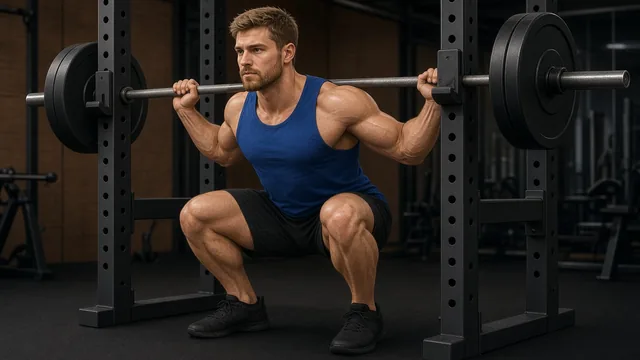
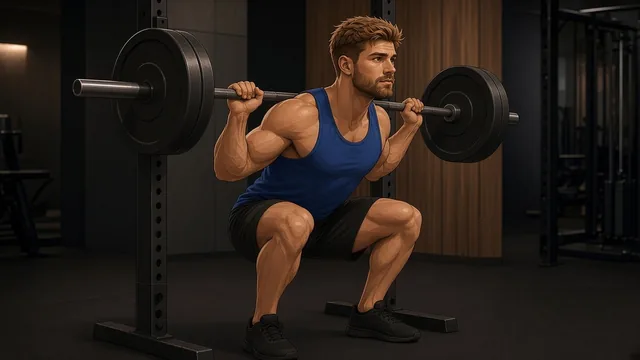
Form tips, new squat image, back-extension + migration (2026.10.23-ce60fec2)

diff --git a/library.js b/library.js
@@ -1,3 +1,3 @@
 // generated by tools/gen_img.py + tools/build_assets.py
-const LIBRARY=[{"key": "bench-press", "name": "לחיצת חזה במוט", "group": "חזה", "img": "img/bench-press.webp"}, {"key": "incline-press", "name": "לחיצת חזה שיפוע עליון", "group": "חזה", "img": "img/incline-press.webp"}, {"key": "pec-deck", "name": "מכונת פרפר", "group": "חזה", "img": "img/pec-deck.webp"}, {"key": "chest-press-machine", "name": "לחיצת חזה במכונה", "group": "חזה", "img": "img/chest-press-machine.webp"}, {"key": "cable-crossover", "name": "קרוסאובר", "group": "חזה", "img": "img/cable-crossover.webp"}, {"key": "dumbbell-press", "name": "לחיצת חזה במשקולות", "group": "חזה", "img": "img/dumbbell-press.webp"}, {"key": "incline-dumbbell-press", "name": "לחיצת משקולות שיפוע עליון", "group": "חזה", "img": "img/incline-dumbbell-press.webp"}, {"key": "decline-press", "name": "לחיצת חזה שיפוע תחתון", "group": "חזה", "img": "img/decline-press.webp"}, {"key": "dumbbell-fly", "name": "פרפר במשקולות", "group": "חזה", "img": "img/dumbbell-fly.webp"}, {"key": "push-up", "name": "שכיבות סמיכה", "group": "חזה", "img": "img/push-up.webp", "type": "bw"}, {"key": "smith-bench", "name": "לחיצת חזה בסמית׳", "group": "חזה", "img": "img/smith-bench.webp"}, {"key": "pullover", "name": "פולאובר", "group": "חזה", "img": "img/pullover.webp"}, {"key": "lat-pulldown", "name": "פולי עליון", "group": "גב", "img": "img/lat-pulldown.webp"}, {"key": "seated-row", "name": "חתירה בישיבה", "group": "גב", "img": "img/seated-row.webp"}, {"key": "barbell-row", "name": "חתירה במוט", "group": "גב", "img": "img/barbell-row.webp"}, {"key": "pull-up", "name": "מתח", "group": "גב", "img": "img/pull-up.webp", "type": "bw"}, {"key": "deadlift", "name": "דדליפט", "group": "גב", "img": "img/deadlift.webp"}, {"key": "t-bar-row", "name": "חתירת T-בר", "group": "גב", "img": "img/t-bar-row.webp"}, {"key": "dumbbell-row", "name": "חתירה במשקולת ביד אחת", "group": "גב", "img": "img/dumbbell-row.webp"}, {"key": "close-grip-pulldown", "name": "פולי עליון אחיזה צרה", "group": "גב", "img": "img/close-grip-pulldown.webp"}, {"key": "straight-arm-pulldown", "name": "פולאובר בכבל בידיים ישרות", "group": "גב", "img": "img/straight-arm-pulldown.webp"}, {"key": "chin-up", "name": "מתח באחיזה הפוכה", "group": "גב", "img": "img/chin-up.webp", "type": "bw"}, {"key": "machine-row", "name": "חתירה במכונה", "group": "גב", "img": "img/machine-row.webp"}, {"key": "shoulder-press", "name": "לחיצת כתפיים", "group": "כתפיים", "img": "img/shoulder-press.webp"}, {"key": "lateral-raise", "name": "הרחקה לצדדים", "group": "כתפיים", "img": "img/lateral-raise.webp"}, {"key": "reverse-fly", "name": "פרפר הפוך", "group": "כתפיים", "img": "img/reverse-fly.webp"}, {"key": "face-pull", "name": "פייס פול", "group": "כתפיים", "img": "img/face-pull.webp"}, {"key": "dumbbell-shoulder-press", "name": "לחיצת כתפיים במשקולות", "group": "כתפיים", "img": "img/dumbbell-shoulder-press.webp"}, {"key": "arnold-press", "name": "לחיצת ארנולד", "group": "כתפיים", "img": "img/arnold-press.webp"}, {"key": "standing-shoulder-press", "name": "לחיצה צבאית בעמידה", "group": "כתפיים", "img": "img/standing-shoulder-press.webp"}, {"key": "front-raise", "name": "הרמה קדמית", "group": "כתפיים", "img": "img/front-raise.webp"}, {"key": "upright-row", "name": "חתירה לסנטר", "group": "כתפיים", "img": "img/upright-row.webp"}, {"key": "cable-lateral-raise", "name": "הרחקה לצד בכבל", "group": "כתפיים", "img": "img/cable-lateral-raise.webp"}, {"key": "shrug", "name": "משיכת כתפיים", "group": "כתפיים", "img": "img/shrug.webp"}, {"key": "machine-shoulder-press", "name": "לחיצת כתפיים במכונה", "group": "כתפיים", "img": "img/machine-shoulder-press.webp"}, {"key": "barbell-curl", "name": "כפיפת מרפק במוט", "group": "יד קדמית", "img": "img/barbell-curl.webp"}, {"key": "dumbbell-curl", "name": "כפיפה עם משקולות", "group": "יד קדמית", "img": "img/dumbbell-curl.webp"}, {"key": "hammer-curl", "name": "פטישים", "group": "יד קדמית", "img": "img/hammer-curl.webp"}, {"key": "cable-curl", "name": "כפיפה בכבל", "group": "יד קדמית", "img": "img/cable-curl.webp"}, {"key": "preacher-curl", "name": "כפיפה על ספסל סקוט", "group": "יד קדמית", "img": "img/preacher-curl.webp"}, {"key": "concentration-curl", "name": "כפיפת ריכוז", "group": "יד קדמית", "img": "img/concentration-curl.webp"}, {"key": "incline-curl", "name": "כפיפה בספסל משופע", "group": "יד קדמית", "img": "img/incline-curl.webp"}, {"key": "ez-curl", "name": "כפיפה במוט EZ", "group": "יד קדמית", "img": "img/ez-curl.webp"}, {"key": "rope-hammer-curl", "name": "פטישים בחבל", "group": "יד קדמית", "img": "img/rope-hammer-curl.webp"}, {"key": "spider-curl", "name": "כפיפת עכביש", "group": "יד קדמית", "img": "img/spider-curl.webp"}, {"key": "machine-curl", "name": "כפיפת מרפק במכונה", "group": "יד קדמית", "img": "img/machine-curl.webp"}, {"key": "triceps-pushdown", "name": "פושדאון בכבל", "group": "יד אחורית", "img": "img/triceps-pushdown.webp"}, {"key": "skull-crusher", "name": "פרענית צרפתית", "group": "יד אחורית", "img": "img/skull-crusher.webp"}, {"key": "dips", "name": "מקבילים", "group": "יד אחורית", "img": "img/dips.webp", "type": "bw"}, {"key": "overhead-extension", "name": "פשיטת מרפק מעל הראש", "group": "יד אחורית", "img": "img/overhead-extension.webp"}, {"key": "rope-pushdown", "name": "פושדאון בחבל", "group": "יד אחורית", "img": "img/rope-pushdown.webp"}, {"key": "kickback", "name": "קיקבק", "group": "יד אחורית", "img": "img/kickback.webp"}, {"key": "bench-dips", "name": "מקבילים על ספסל", "group": "יד אחורית", "img": "img/bench-dips.webp", "type": "bw"}, {"key": "diamond-push-up", "name": "שכיבות סמיכה יהלום", "group": "יד אחורית", "img": "img/diamond-push-up.webp", "type": "bw"}, {"key": "single-arm-pushdown", "name": "פושדאון ביד אחת", "group": "יד אחורית", "img": "img/single-arm-pushdown.webp"}, {"key": "triceps-machine", "name": "מכונת יד אחורית", "group": "יד אחורית", "img": "img/triceps-machine.webp"}, {"key": "squat", "name": "סקוואט", "group": "רגליים", "img": "img/squat.webp"}, {"key": "leg-press", "name": "לחיצת רגליים", "group": "רגליים", "img": "img/leg-press.webp"}, {"key": "leg-extension", "name": "פשיטת ברכיים", "group": "רגליים", "img": "img/leg-extension.webp"}, {"key": "leg-curl", "name": "כפיפת ברכיים", "group": "רגליים", "img": "img/leg-curl.webp"}, {"key": "lunge", "name": "מכרעים", "group": "רגליים", "img": "img/lunge.webp"}, {"key": "calf-raise", "name": "תאומים", "group": "רגליים", "img": "img/calf-raise.webp"}, {"key": "hip-thrust", "name": "היפ תראסט", "group": "רגליים", "img": "img/hip-thrust.webp"}, {"key": "romanian-deadlift", "name": "דדליפט רומני", "group": "רגליים", "img": "img/romanian-deadlift.webp"}, {"key": "bulgarian-split-squat", "name": "סקוואט בולגרי", "group": "רגליים", "img": "img/bulgarian-split-squat.webp"}, {"key": "hack-squat", "name": "האק סקוואט", "group": "רגליים", "img": "img/hack-squat.webp"}, {"key": "goblet-squat", "name": "גובלט סקוואט", "group": "רגליים", "img": "img/goblet-squat.webp"}, {"key": "crunch", "name": "כפיפות בטן", "group": "בטן", "img": "img/crunch.webp", "type": "bw"}, {"key": "oblique-crunch", "name": "כפיפות בטן לצדדים", "group": "בטן", "img": "img/oblique-crunch.webp", "type": "bw"}, {"key": "plank", "name": "פלאנק", "group": "בטן", "img": "img/plank.webp", "type": "timed"}, {"key": "leg-raise", "name": "הרמת רגליים", "group": "בטן", "img": "img/leg-raise.webp"}, {"key": "decline-situp", "name": "בטן בספסל שיפוע", "group": "בטן", "img": "img/decline-situp.webp"}, {"key": "cable-crunch", "name": "כפיפות בטן בכבל", "group": "בטן", "img": "img/cable-crunch.webp"}, {"key": "russian-twist", "name": "טוויסט רוסי", "group": "בטן", "img": "img/russian-twist.webp", "type": "bw"}, {"key": "side-plank", "name": "פלאנק צידי", "group": "בטן", "img": "img/side-plank.webp", "type": "timed"}, {"key": "hanging-knee-raise", "name": "הרמת ברכיים בתלייה", "group": "בטן", "img": "img/hanging-knee-raise.webp", "type": "bw"}, {"key": "bicycle-crunch", "name": "בטן אופניים", "group": "בטן", "img": "img/bicycle-crunch.webp", "type": "bw"}, {"key": "ab-wheel", "name": "גלגל בטן", "group": "בטן", "img": "img/ab-wheel.webp", "type": "bw"}, {"key": "mountain-climber", "name": "מטפס הרים", "group": "בטן", "img": "img/mountain-climber.webp", "type": "timed"}];
-const APP_VERSION='2026.10.23-95171713';
+const LIBRARY=[{"key": "bench-press", "name": "לחיצת חזה במוט", "group": "חזה", "img": "img/bench-press.webp"}, {"key": "incline-press", "name": "לחיצת חזה שיפוע עליון", "group": "חזה", "img": "img/incline-press.webp"}, {"key": "pec-deck", "name": "מכונת פרפר", "group": "חזה", "img": "img/pec-deck.webp"}, {"key": "chest-press-machine", "name": "לחיצת חזה במכונה", "group": "חזה", "img": "img/chest-press-machine.webp"}, {"key": "cable-crossover", "name": "קרוסאובר", "group": "חזה", "img": "img/cable-crossover.webp"}, {"key": "dumbbell-press", "name": "לחיצת חזה במשקולות", "group": "חזה", "img": "img/dumbbell-press.webp"}, {"key": "incline-dumbbell-press", "name": "לחיצת משקולות שיפוע עליון", "group": "חזה", "img": "img/incline-dumbbell-press.webp"}, {"key": "decline-press", "name": "לחיצת חזה שיפוע תחתון", "group": "חזה", "img": "img/decline-press.webp"}, {"key": "dumbbell-fly", "name": "פרפר במשקולות", "group": "חזה", "img": "img/dumbbell-fly.webp"}, {"key": "push-up", "name": "שכיבות סמיכה", "group": "חזה", "img": "img/push-up.webp", "type": "bw"}, {"key": "smith-bench", "name": "לחיצת חזה בסמית׳", "group": "חזה", "img": "img/smith-bench.webp"}, {"key": "pullover", "name": "פולאובר", "group": "חזה", "img": "img/pullover.webp"}, {"key": "lat-pulldown", "name": "פולי עליון", "group": "גב", "img": "img/lat-pulldown.webp"}, {"key": "seated-row", "name": "חתירה בישיבה", "group": "גב", "img": "img/seated-row.webp"}, {"key": "barbell-row", "name": "חתירה במוט", "group": "גב", "img": "img/barbell-row.webp"}, {"key": "pull-up", "name": "מתח", "group": "גב", "img": "img/pull-up.webp", "type": "bw"}, {"key": "deadlift", "name": "דדליפט", "group": "גב", "img": "img/deadlift.webp"}, {"key": "t-bar-row", "name": "חתירת T-בר", "group": "גב", "img": "img/t-bar-row.webp"}, {"key": "dumbbell-row", "name": "חתירה במשקולת ביד אחת", "group": "גב", "img": "img/dumbbell-row.webp"}, {"key": "close-grip-pulldown", "name": "פולי עליון אחיזה צרה", "group": "גב", "img": "img/close-grip-pulldown.webp"}, {"key": "straight-arm-pulldown", "name": "פולאובר בכבל בידיים ישרות", "group": "גב", "img": "img/straight-arm-pulldown.webp"}, {"key": "back-extension", "name": "פשיטת גב (היפראקסטנשן)", "group": "גב", "img": "img/back-extension.webp"}, {"key": "chin-up", "name": "מתח באחיזה הפוכה", "group": "גב", "img": "img/chin-up.webp", "type": "bw"}, {"key": "machine-row", "name": "חתירה במכונה", "group": "גב", "img": "img/machine-row.webp"}, {"key": "shoulder-press", "name": "לחיצת כתפיים", "group": "כתפיים", "img": "img/shoulder-press.webp"}, {"key": "lateral-raise", "name": "הרחקה לצדדים", "group": "כתפיים", "img": "img/lateral-raise.webp"}, {"key": "reverse-fly", "name": "פרפר הפוך", "group": "כתפיים", "img": "img/reverse-fly.webp"}, {"key": "face-pull", "name": "פייס פול", "group": "כתפיים", "img": "img/face-pull.webp"}, {"key": "dumbbell-shoulder-press", "name": "לחיצת כתפיים במשקולות", "group": "כתפיים", "img": "img/dumbbell-shoulder-press.webp"}, {"key": "arnold-press", "name": "לחיצת ארנולד", "group": "כתפיים", "img": "img/arnold-press.webp"}, {"key": "standing-shoulder-press", "name": "לחיצה צבאית בעמידה", "group": "כתפיים", "img": "img/standing-shoulder-press.webp"}, {"key": "front-raise", "name": "הרמה קדמית", "group": "כתפיים", "img": "img/front-raise.webp"}, {"key": "upright-row", "name": "חתירה לסנטר", "group": "כתפיים", "img": "img/upright-row.webp"}, {"key": "cable-lateral-raise", "name": "הרחקה לצד בכבל", "group": "כתפיים", "img": "img/cable-lateral-raise.webp"}, {"key": "shrug", "name": "משיכת כתפיים", "group": "כתפיים", "img": "img/shrug.webp"}, {"key": "machine-shoulder-press", "name": "לחיצת כתפיים במכונה", "group": "כתפיים", "img": "img/machine-shoulder-press.webp"}, {"key": "barbell-curl", "name": "כפיפת מרפק במוט", "group": "יד קדמית", "img": "img/barbell-curl.webp"}, {"key": "dumbbell-curl", "name": "כפיפה עם משקולות", "group": "יד קדמית", "img": "img/dumbbell-curl.webp"}, {"key": "hammer-curl", "name": "פטישים", "group": "יד קדמית", "img": "img/hammer-curl.webp"}, {"key": "cable-curl", "name": "כפיפה בכבל", "group": "יד קדמית", "img": "img/cable-curl.webp"}, {"key": "preacher-curl", "name": "כפיפה על ספסל סקוט", "group": "יד קדמית", "img": "img/preacher-curl.webp"}, {"key": "concentration-curl", "name": "כפיפת ריכוז", "group": "יד קדמית", "img": "img/concentration-curl.webp"}, {"key": "incline-curl", "name": "כפיפה בספסל משופע", "group": "יד קדמית", "img": "img/incline-curl.webp"}, {"key": "ez-curl", "name": "כפיפה במוט EZ", "group": "יד קדמית", "img": "img/ez-curl.webp"}, {"key": "rope-hammer-curl", "name": "פטישים בחבל", "group": "יד קדמית", "img": "img/rope-hammer-curl.webp"}, {"key": "spider-curl", "name": "כפיפת עכביש", "group": "יד קדמית", "img": "img/spider-curl.webp"}, {"key": "machine-curl", "name": "כפיפת מרפק במכונה", "group": "יד קדמית", "img": "img/machine-curl.webp"}, {"key": "triceps-pushdown", "name": "פושדאון בכבל", "group": "יד אחורית", "img": "img/triceps-pushdown.webp"}, {"key": "skull-crusher", "name": "פרענית צרפתית", "group": "יד אחורית", "img": "img/skull-crusher.webp"}, {"key": "dips", "name": "מקבילים", "group": "יד אחורית", "img": "img/dips.webp", "type": "bw"}, {"key": "overhead-extension", "name": "פשיטת מרפק מעל הראש", "group": "יד אחורית", "img": "img/overhead-extension.webp"}, {"key": "rope-pushdown", "name": "פושדאון בחבל", "group": "יד אחורית", "img": "img/rope-pushdown.webp"}, {"key": "kickback", "name": "קיקבק", "group": "יד אחורית", "img": "img/kickback.webp"}, {"key": "bench-dips", "name": "מקבילים על ספסל", "group": "יד אחורית", "img": "img/bench-dips.webp", "type": "bw"}, {"key": "diamond-push-up", "name": "שכיבות סמיכה יהלום", "group": "יד אחורית", "img": "img/diamond-push-up.webp", "type": "bw"}, {"key": "single-arm-pushdown", "name": "פושדאון ביד אחת", "group": "יד אחורית", "img": "img/single-arm-pushdown.webp"}, {"key": "triceps-machine", "name": "מכונת יד אחורית", "group": "יד אחורית", "img": "img/triceps-machine.webp"}, {"key": "squat", "name": "סקוואט", "group": "רגליים", "img": "img/squat.webp"}, {"key": "leg-press", "name": "לחיצת רגליים", "group": "רגליים", "img": "img/leg-press.webp"}, {"key": "leg-extension", "name": "פשיטת ברכיים", "group": "רגליים", "img": "img/leg-extension.webp"}, {"key": "leg-curl", "name": "כפיפת ברכיים", "group": "רגליים", "img": "img/leg-curl.webp"}, {"key": "lunge", "name": "מכרעים", "group": "רגליים", "img": "img/lunge.webp"}, {"key": "calf-raise", "name": "תאומים", "group": "רגליים", "img": "img/calf-raise.webp"}, {"key": "hip-thrust", "name": "היפ תראסט", "group": "רגליים", "img": "img/hip-thrust.webp"}, {"key": "romanian-deadlift", "name": "דדליפט רומני", "group": "רגליים", "img": "img/romanian-deadlift.webp"}, {"key": "bulgarian-split-squat", "name": "סקוואט בולגרי", "group": "רגליים", "img": "img/bulgarian-split-squat.webp"}, {"key": "hack-squat", "name": "האק סקוואט", "group": "רגליים", "img": "img/hack-squat.webp"}, {"key": "goblet-squat", "name": "גובלט סקוואט", "group": "רגליים", "img": "img/goblet-squat.webp"}, {"key": "crunch", "name": "כפיפות בטן", "group": "בטן", "img": "img/crunch.webp", "type": "bw"}, {"key": "oblique-crunch", "name": "כפיפות בטן לצדדים", "group": "בטן", "img": "img/oblique-crunch.webp", "type": "bw"}, {"key": "plank", "name": "פלאנק", "group": "בטן", "img": "img/plank.webp", "type": "timed"}, {"key": "leg-raise", "name": "הרמת רגליים", "group": "בטן", "img": "img/leg-raise.webp"}, {"key": "decline-situp", "name": "בטן בספסל שיפוע", "group": "בטן", "img": "img/decline-situp.webp"}, {"key": "cable-crunch", "name": "כפיפות בטן בכבל", "group": "בטן", "img": "img/cable-crunch.webp"}, {"key": "russian-twist", "name": "טוויסט רוסי", "group": "בטן", "img": "img/russian-twist.webp", "type": "bw"}, {"key": "side-plank", "name": "פלאנק צידי", "group": "בטן", "img": "img/side-plank.webp", "type": "timed"}, {"key": "hanging-knee-raise", "name": "הרמת ברכיים בתלייה", "group": "בטן", "img": "img/hanging-knee-raise.webp", "type": "bw"}, {"key": "bicycle-crunch", "name": "בטן אופניים", "group": "בטן", "img": "img/bicycle-crunch.webp", "type": "bw"}, {"key": "ab-wheel", "name": "גלגל בטן", "group": "בטן", "img": "img/ab-wheel.webp", "type": "bw"}, {"key": "mountain-climber", "name": "מטפס הרים", "group": "בטן", "img": "img/mountain-climber.webp", "type": "timed"}];
+const APP_VERSION='2026.10.23-ce60fec2';

diff --git a/tips.js b/tips.js
@@ -1,0 +1,82 @@
+// form cues per library exercise (each ≤6 words)
+const TIPS={
+'bench-press':['שכמות מקובצות לאחור ולמטה','מרפקים כ־45° מהגוף','מוט יורד לאמצע החזה'],
+'incline-press':['ספסל בשיפוע 30–45°','מוט יורד לחזה העליון','שכמות צמודות לספסל'],
+'pec-deck':['מרפקים מעט כפופים וקבועים','חזה פתוח, גב צמוד','חזרה איטית ומבוקרת'],
+'chest-press-machine':['ידיות בגובה אמצע החזה','לא לנעול מרפקים בסוף','גב צמוד למשענת'],
+'cable-crossover':['רכינה קלה קדימה','מרפקים מעט כפופים','חיבור ידיים מול החזה'],
+'dumbbell-press':['שכמות מקובצות לאחור','מרפקים כ־45° מהגוף','ירידה מבוקרת עד מתיחה'],
+'incline-dumbbell-press':['ספסל בשיפוע 30–45°','משקולות נפגשות מעל החזה','לא לקשת את הגב'],
+'decline-press':['רגליים נעולות היטב','מוט יורד לחזה התחתון','עבודה עם שומר'],
+'dumbbell-fly':['מרפקים מעט כפופים וקבועים','ירידה עד מתיחה נוחה','לא לרדת מתחת לכתפיים'],
+'push-up':['גוף בקו ישר','מרפקים כ־45° מהגוף','חזה כמעט נוגע ברצפה'],
+'smith-bench':['ספסל ממוקם מתחת לחזה','שכמות מקובצות לאחור','מוט יורד לאמצע החזה'],
+'pullover':['מרפקים מעט כפופים','ירידה עד מתיחה נוחה','צלעות למטה, בלי קשת'],
+'lat-pulldown':['משיכה לחזה העליון','שכמות למטה ואחורה','לא להתנדנד לאחור'],
+'seated-row':['גב ישר, חזה פתוח','משיכה לבטן העליונה','שכמות נסגרות בסוף'],
+'barbell-row':['גב ישר, רכינה ~45°','משיכה לטבור','בלי תנופה מהגב'],
+'pull-up':['להתחיל מתלייה מלאה','חזה אל המוט','בלי נדנוד'],
+'deadlift':['גב ניטרלי לאורך כל התנועה','מוט צמוד לרגליים','דחיפה מהעקבים'],
+'t-bar-row':['גב ישר, ברכיים כפופות','משיכה לחזה התחתון','בלי לעגל את הגב'],
+'dumbbell-row':['גב ישר ומקביל לרצפה','מרפק נמשך לאחור לירך','בלי סיבוב הגו'],
+'close-grip-pulldown':['משיכה לחזה העליון','מרפקים צמודים לגוף','שכמות למטה'],
+'straight-arm-pulldown':['ידיים כמעט ישרות','משיכה עד הירכיים','גו יציב, בלי תנופה'],
+'back-extension':['גוף בקו ישר למעלה','לא לקשת מעבר לקו','ירידה איטית מהמותן'],
+'chin-up':['אחיזה ברוחב הכתפיים','להתחיל מתלייה מלאה','סנטר מעל המוט'],
+'machine-row':['חזה צמוד לכרית','משיכה עם המרפקים','שכמות נסגרות בסוף'],
+'shoulder-press':['בטן אסופה, בלי קשת','מרפקים מעט לפני הגוף','לא לנעול מרפקים'],
+'lateral-raise':['הרמה עד גובה הכתפיים','מרפקים מעט כפופים','בלי תנופה'],
+'reverse-fly':['רכינה עם גב ישר','מרפקים מעט כפופים','שכמות נסגרות בסוף'],
+'face-pull':['כבל בגובה הפנים','משיכה לכיוון המצח','מרפקים גבוהים והחוצה'],
+'dumbbell-shoulder-press':['גב צמוד למשענת','מרפקים מעט לפני הגוף','ירידה עד גובה האוזניים'],
+'arnold-press':['סיבוב כפות תוך כדי לחיצה','בטן אסופה','תנועה איטית ומבוקרת'],
+'standing-shoulder-press':['ישבן ובטן מכווצים','מוט עובר צמוד לפנים','ראש קדימה בסוף התנועה'],
+'front-raise':['הרמה עד גובה הכתפיים','מרפקים מעט כפופים','בלי נדנוד הגו'],
+'upright-row':['אחיזה ברוחב הכתפיים','מרפקים עד גובה הכתפיים','לא מעל הכתפיים'],
+'cable-lateral-raise':['כבל בגובה נמוך','הרמה עד גובה הכתפיים','גו יציב'],
+'shrug':['הרמת כתפיים ישר למעלה','בלי לגלגל כתפיים','החזקה קצרה למעלה'],
+'machine-shoulder-press':['ידיות בגובה הכתפיים','גב צמוד למשענת','לא לנעול מרפקים'],
+'barbell-curl':['מרפקים צמודים לגוף','בלי תנופה מהגב','ירידה מלאה ומבוקרת'],
+'dumbbell-curl':['מרפקים צמודים לגוף','סיבוב כף יד למעלה','ירידה איטית'],
+'hammer-curl':['אגודל כלפי מעלה','מרפקים צמודים לגוף','בלי נדנוד'],
+'cable-curl':['מרפקים קבועים ליד הגוף','מתח רציף בכבל','ירידה מבוקרת'],
+'preacher-curl':['זרוע צמודה לכרית','לא ליישר מרפק בכוח','ירידה איטית'],
+'concentration-curl':['מרפק נשען על הירך','רק האמה זזה','כיווץ בשיא'],
+'incline-curl':['גב צמוד לספסל','ידיים תלויות ישר','בלי להקדים כתפיים'],
+'ez-curl':['מרפקים צמודים לגוף','בלי תנופה מהגב','ירידה מלאה ומבוקרת'],
+'rope-hammer-curl':['אגודלים כלפי מעלה','מרפקים צמודים לגוף','מתח רציף בכבל'],
+'spider-curl':['חזה צמוד לספסל','ידיים תלויות ישר','כיווץ בשיא'],
+'machine-curl':['מרפק מול ציר המכונה','זרוע צמודה לכרית','ירידה מבוקרת'],
+'triceps-pushdown':['מרפקים צמודים לגוף','יישור מלא למטה','רק האמה זזה'],
+'skull-crusher':['מרפקים מכוונים לתקרה','מוט יורד למצח','ירידה איטית ומבוקרת'],
+'dips':['ירידה עד מרפק 90°','כתפיים רחוקות מהאוזניים','בלי לקפוץ למטה'],
+'overhead-extension':['מרפקים מכוונים קדימה','בטן אסופה, בלי קשת','יישור מלא למעלה'],
+'rope-pushdown':['מרפקים צמודים לגוף','פיסוק החבל למטה','רק האמה זזה'],
+'kickback':['גב ישר, רכינה קדימה','זרוע מקבילה לגוף','רק האמה זזה'],
+'bench-dips':['גב קרוב לספסל','ירידה עד מרפק 90°','כתפיים למטה'],
+'diamond-push-up':['ידיים צמודות מתחת לחזה','גוף בקו ישר','מרפקים צמודים לגוף'],
+'single-arm-pushdown':['מרפק צמוד לגוף','יישור מלא למטה','גו יציב'],
+'triceps-machine':['מרפקים מול ציר המכונה','יישור מלא','חזרה מבוקרת'],
+'squat':['ברכיים בכיוון האצבעות','גב ניטרלי, חזה פתוח','ירידה עד ירכיים מקבילות'],
+'leg-press':['גב תחתון צמוד למשענת','לא לנעול ברכיים','ברכיים בכיוון האצבעות'],
+'leg-extension':['ברך מול ציר המכונה','יישור מבוקר, בלי זריקה','ירידה איטית'],
+'leg-curl':['ברך מול ציר המכונה','אגן צמוד לכרית','ירידה איטית'],
+'lunge':['ברך קדמית מעל הקרסול','גו זקוף','ברך אחורית כמעט נוגעת'],
+'calf-raise':['טווח תנועה מלא','החזקה קצרה למעלה','ירידה עד מתיחה'],
+'hip-thrust':['שכמות על הספסל','סנטר מכונס, צלעות למטה','כיווץ ישבן למעלה'],
+'romanian-deadlift':['ברכיים מעט כפופות','אגן נדחף לאחור','גב ישר, מוט צמוד'],
+'bulgarian-split-squat':['ברך קדמית בכיוון האצבעות','גו זקוף או מעט קדימה','ירידה מבוקרת'],
+'hack-squat':['גב צמוד למשענת','ברכיים בכיוון האצבעות','לא לנעול ברכיים'],
+'goblet-squat':['משקולת צמודה לחזה','מרפקים בין הברכיים','חזה פתוח, גב ישר'],
+'crunch':['גב תחתון צמוד לרצפה','לא למשוך את הראש','הרמת שכמות בלבד'],
+'oblique-crunch':['סיבוב מהגו, לא מהצוואר','גב תחתון צמוד','תנועה איטית'],
+'plank':['גוף בקו ישר','ישבן ובטן מכווצים','מרפקים מתחת לכתפיים'],
+'leg-raise':['גב תחתון צמוד לרצפה','ירידה איטית','בלי תנופה'],
+'decline-situp':['רגליים נעולות היטב','גב מעוגל קלות','ירידה מבוקרת'],
+'cable-crunch':['ירכיים קבועות','כפיפה מהבטן, לא מהידיים','מרפקים אל הברכיים'],
+'russian-twist':['גב ישר, חזה פתוח','סיבוב מהגו','תנועה מבוקרת'],
+'side-plank':['גוף בקו ישר','מרפק מתחת לכתף','אגן גבוה'],
+'hanging-knee-raise':['בלי נדנוד','ברכיים עד גובה האגן','ירידה מבוקרת'],
+'bicycle-crunch':['גב תחתון צמוד','מרפק לברך הנגדית','לא למשוך את הראש'],
+'ab-wheel':['בטן אסופה, גב לא קורס','להתחיל בטווח קצר','ירכיים ישרות בחזרה'],
+'mountain-climber':['כתפיים מעל כפות הידיים','אגן נמוך ויציב','בטן אסופה']};

diff --git a/sw.js b/sw.js
@@ -1,5 +1,5 @@
-// version 2026.10.23-95171713
-const VER='2026.10.23-95171713',C='gym-95171713',MARK='gym-upd-protocol',F=["./", "index.html", "style.css", "app.js", "journal.js", "timed.js", "navy.js", "today.js", "import.js", "motivation.js", "easy.js", "library.js", "manifest.webmanifest", "icon-192.png", "icon-512.png", "icon-maskable-512.png", "img/bench-press.webp", "img/incline-press.webp", "img/pec-deck.webp", "img/chest-press-machine.webp", "img/cable-crossover.webp", "img/dumbbell-press.webp", "img/incline-dumbbell-press.webp", "img/decline-press.webp", "img/dumbbell-fly.webp", "img/push-up.webp", "img/smith-bench.webp", "img/pullover.webp", "img/lat-pulldown.webp", "img/seated-row.webp", "img/barbell-row.webp", "img/pull-up.webp", "img/deadlift.webp", "img/t-bar-row.webp", "img/dumbbell-row.webp", "img/close-grip-pulldown.webp", "img/straight-arm-pulldown.webp", "img/chin-up.webp", "img/machine-row.webp", "img/shoulder-press.webp", "img/lateral-raise.webp", "img/reverse-fly.webp", "img/face-pull.webp", "img/dumbbell-shoulder-press.webp", "img/arnold-press.webp", "img/standing-shoulder-press.webp", "img/front-raise.webp", "img/upright-row.webp", "img/cable-lateral-raise.webp", "img/shrug.webp", "img/machine-shoulder-press.webp", "img/barbell-curl.webp", "img/dumbbell-curl.webp", "img/hammer-curl.webp", "img/cable-curl.webp", "img/preacher-curl.webp", "img/concentration-curl.webp", "img/incline-curl.webp", "img/ez-curl.webp", "img/rope-hammer-curl.webp", "img/spider-curl.webp", "img/machine-curl.webp", "img/triceps-pushdown.webp", "img/skull-crusher.webp", "img/dips.webp", "img/overhead-extension.webp", "img/rope-pushdown.webp", "img/kickback.webp", "img/bench-dips.webp", "img/diamond-push-up.webp", "img/single-arm-pushdown.webp", "img/triceps-machine.webp", "img/squat.webp", "img/leg-press.webp", "img/leg-extension.webp", "img/leg-curl.webp", "img/lunge.webp", "img/calf-raise.webp", "img/hip-thrust.webp", "img/romanian-deadlift.webp", "img/bulgarian-split-squat.webp", "img/hack-squat.webp", "img/goblet-squat.webp", "img/crunch.webp", "img/oblique-crunch.webp", "img/plank.webp", "img/leg-raise.webp", "img/decline-situp.webp", "img/cable-crunch.webp", "img/russian-twist.webp", "img/side-plank.webp", "img/hanging-knee-raise.webp", "img/bicycle-crunch.webp", "img/ab-wheel.webp", "img/mountain-climber.webp"];
+// version 2026.10.23-ce60fec2
+const VER='2026.10.23-ce60fec2',C='gym-ce60fec2',MARK='gym-upd-protocol',F=["./", "index.html", "style.css", "app.js", "journal.js", "timed.js", "navy.js", "today.js", "import.js", "motivation.js", "easy.js", "tips.js", "library.js", "manifest.webmanifest", "icon-192.png", "icon-512.png", "icon-maskable-512.png", "img/bench-press.webp", "img/incline-press.webp", "img/pec-deck.webp", "img/chest-press-machine.webp", "img/cable-crossover.webp", "img/dumbbell-press.webp", "img/incline-dumbbell-press.webp", "img/decline-press.webp", "img/dumbbell-fly.webp", "img/push-up.webp", "img/smith-bench.webp", "img/pullover.webp", "img/lat-pulldown.webp", "img/seated-row.webp", "img/barbell-row.webp", "img/pull-up.webp", "img/deadlift.webp", "img/t-bar-row.webp", "img/dumbbell-row.webp", "img/close-grip-pulldown.webp", "img/straight-arm-pulldown.webp", "img/back-extension.webp", "img/chin-up.webp", "img/machine-row.webp", "img/shoulder-press.webp", "img/lateral-raise.webp", "img/reverse-fly.webp", "img/face-pull.webp", "img/dumbbell-shoulder-press.webp", "img/arnold-press.webp", "img/standing-shoulder-press.webp", "img/front-raise.webp", "img/upright-row.webp", "img/cable-lateral-raise.webp", "img/shrug.webp", "img/machine-shoulder-press.webp", "img/barbell-curl.webp", "img/dumbbell-curl.webp", "img/hammer-curl.webp", "img/cable-curl.webp", "img/preacher-curl.webp", "img/concentration-curl.webp", "img/incline-curl.webp", "img/ez-curl.webp", "img/rope-hammer-curl.webp", "img/spider-curl.webp", "img/machine-curl.webp", "img/triceps-pushdown.webp", "img/skull-crusher.webp", "img/dips.webp", "img/overhead-extension.webp", "img/rope-pushdown.webp", "img/kickback.webp", "img/bench-dips.webp", "img/diamond-push-up.webp", "img/single-arm-pushdown.webp", "img/triceps-machine.webp", "img/squat.webp", "img/leg-press.webp", "img/leg-extension.webp", "img/leg-curl.webp", "img/lunge.webp", "img/calf-raise.webp", "img/hip-thrust.webp", "img/romanian-deadlift.webp", "img/bulgarian-split-squat.webp", "img/hack-squat.webp", "img/goblet-squat.webp", "img/crunch.webp", "img/oblique-crunch.webp", "img/plank.webp", "img/leg-raise.webp", "img/decline-situp.webp", "img/cable-crunch.webp", "img/russian-twist.webp", "img/side-plank.webp", "img/hanging-knee-raise.webp", "img/bicycle-crunch.webp", "img/ab-wheel.webp", "img/mountain-climber.webp"];
 self.addEventListener('install',e=>{e.waitUntil((async()=>{const c=await caches.open(C);await Promise.all(F.map(u=>fetch(u,{cache:'reload'}).then(r=>{if(!r.ok)throw new Error(u);return c.put(u,r)})));
   if(!(await caches.has(MARK)))self.skipWaiting();})())});
 self.addEventListener('message',e=>{if(!e.data)return;if(e.data.type==='SKIP_WAITING')self.skipWaiting();if(e.data.type==='VERSION'&&e.ports[0])e.ports[0].postMessage(VER)});

diff --git a/app.js b/app.js
@@ -73,13 +73,14 @@ function openForm(m){const st={photo:m?m.photo:null};
   <label>אזור בגוף</label><select id="fG">${groups.map(g=>`<option value="${g.id}">${esc(g.name)}</option>`).join('')}<option value="${NONE}">ללא קטגוריה</option></select>
   <label class="chk"><input type="checkbox" id="fBW" ${m&&m.bw?'checked':''}> תרגיל משקל גוף (חזרות + משקל נוסף, 0 = משקל גוף)</label>
   <label class="chk"><input type="checkbox" id="fTM" ${m&&m.timed?'checked':''}> תרגיל זמן (סטופר, בלי משקל)</label>
+  <label>דגשים לביצוע (לא חובה, שורה לכל דגש)</label><textarea id="fTips" rows="3" placeholder="${esc(((m&&m.lib&&TIPS[m.lib])||['למשל: גב ישר','ירידה איטית']).join('\n'))}">${m&&m.tips?esc(m.tips):''}</textarea>
   ${m?'':'<label>משקל התחלתי (ק״ג)</label><input type="number" id="fW" inputmode="decimal" step="0.5" min="0" value="10">'}
   <button class="btn pri" id="fSave">שמור</button>${m?'<button class="btn" id="fArc">📚 הסר מהעמוד הראשי (חוזר לספרייה)</button><button class="btn danger" id="fDel">🗑 מחק לצמיתות</button>':''}<button class="btn" id="fCancel">ביטול</button>`);
   $('#fG').value=m?m.group:(filter!=='all'?filter:(groups[0]||{id:NONE}).id);$('#fBW').onchange=()=>{if($('#fBW').checked)$('#fTM').checked=false};$('#fTM').onchange=()=>{if($('#fTM').checked)$('#fBW').checked=false};wirePhoto(st);$('#fCancel').onclick=m?()=>openEdit(m.id):closeSheet;
   $('#fSave').onclick=async()=>{const name=$('#fName').value.trim();if(!name){$('#fName').focus();return alert('צריך שם לתרגיל')}
-    const group=$('#fG').value,bw=$('#fBW').checked,tm=$('#fTM').checked;if(m){m.name=name;m.photo=st.photo;m.group=group;if(tm!==!!m.timed){await makeTimed(m,tm);await load();openEdit(m.id);return}if(bw&&!m.bw){m.bw=true;if(m.reps===undefined)m.reps=null}else if(!bw&&m.bw)m.bw=false;await put(m);await load();openEdit(m.id);return}
+    const group=$('#fG').value,bw=$('#fBW').checked,tm=$('#fTM').checked,tips=$('#fTips').value.trim();if(m){m.name=name;if(tips)m.tips=tips;else delete m.tips;m.photo=st.photo;m.group=group;if(tm!==!!m.timed){await makeTimed(m,tm);await load();openEdit(m.id);return}if(bw&&!m.bw){m.bw=true;if(m.reps===undefined)m.reps=null}else if(!bw&&m.bw)m.bw=false;await put(m);await load();openEdit(m.id);return}
     const w=parseFloat($('#fW').value);if(!(w>=0))return alert('משקל לא תקין');const now=Date.now();
-    await put({id:newId(),name,group,...(tm?{timed:true,secs:null}:bw?{bw:true,reps:null}:{}),photo:st.photo,weight:w,step:1,created:now,updated:now,history:(w>0&&!bw&&!tm)?[{t:now,w}]:[]});closeSheet();load()};
+    await put({id:newId(),name,group,...(tm?{timed:true,secs:null}:bw?{bw:true,reps:null}:{}),...(tips?{tips}:{}),photo:st.photo,weight:w,step:1,created:now,updated:now,history:(w>0&&!bw&&!tm)?[{t:now,w}]:[]});closeSheet();load()};
   if(m)$('#fArc').onclick=()=>archiveEx(m);
   if(m)$('#fDel').onclick=async()=>{if(confirm(`למחוק את "${m.name}" כולל כל ההיסטוריה? אי אפשר לבטל.`)){await del(m.id);closeSheet();load()}}}
 

diff --git a/index.html b/index.html
@@ -19,5 +19,5 @@
 <div id="toast" class="toast" hidden><span id="toastMsg"></span><button id="undoBtn">ביטול</button></div>
 <div id="sheetBg" class="sheet-bg" hidden></div><section id="sheet" class="sheet" hidden></section>
 <input type="file" id="importFile" accept="application/json,.json" hidden>
-<script src="library.js"></script><script src="journal.js"></script><script src="timed.js"></script><script src="navy.js"></script>
+<script src="library.js"></script><script src="tips.js"></script><script src="journal.js"></script><script src="timed.js"></script><script src="navy.js"></script>
 <script src="today.js"></script><script src="import.js"></script><script src="motivation.js"></script><script src="app.js"></script><script src="easy.js"></script></body></html>

diff --git a/style.css b/style.css
@@ -152,3 +152,6 @@ button,.card,.pm{-webkit-tap-highlight-color:transparent;user-select:none;-webki
 body.flash::after{content:'';position:fixed;inset:0;pointer-events:none;z-index:9999;background:#dc2626;animation:flo .4s 6 alternate;opacity:0}
 @keyframes flo{to{opacity:.35}}
 .card{-webkit-touch-callout:none}
+
+.tips{margin:4px 0 10px;padding:0 18px 0 0;line-height:1.7}.tips li{margin:2px 0}
+textarea{width:100%;box-sizing:border-box;background:#0f172a;color:#fff;border:1px solid #475569;border-radius:10px;padding:8px;font:inherit;font-size:16px}

diff --git a/tools/build_assets.py b/tools/build_assets.py
@@ -15,7 +15,7 @@ src=open(R+'/library.js').read();lib=json.loads(re.search(r'const LIBRARY=(\[.*\
 for e in lib:
     e['img']=f"img/{e['key']}.webp" if os.path.exists(f"{R}/img/{e['key']}.webp") else f"img/{e['key']}.svg"
 open(R+'/library.js','w').write('// generated by tools/gen_img.py + tools/build_assets.py\nconst LIBRARY='+json.dumps(lib,ensure_ascii=False)+';\n')
-core=['index.html','style.css','app.js','journal.js','timed.js','navy.js','today.js','import.js','motivation.js','easy.js','library.js','manifest.webmanifest','icon-192.png','icon-512.png','icon-maskable-512.png']
+core=['index.html','style.css','app.js','journal.js','timed.js','navy.js','today.js','import.js','motivation.js','easy.js','tips.js','library.js','manifest.webmanifest','icon-192.png','icon-512.png','icon-maskable-512.png']
 F=['./']+core+[e['img'] for e in lib]
 h=hashlib.sha1(b''.join(open(f'{R}/{x}','rb').read() for x in F[1:])).hexdigest()[:8]
 import datetime

diff --git a/BACKLOG.md b/BACKLOG.md
@@ -1,0 +1,15 @@
+# רשימת תיקונים להמשך
+
+- [x] כפתור "סיים אזור" בתוכנית האימון: לסיים את אזור הגוף הנוכחי (מתוכנית "מה לאמן היום") גם אם לא כל התרגילים בוצעו. נוסף 20.10.2026 ✅ בוצע 21.10.2026 (גרסה 2026.10.21-1940c13e)
+- [x] "מה לאמן היום" יציע עד 3 אזורי גוף לאותו יום (לא רק אחד), לפי הזמן הכי רחוק מהאימון האחרון. לכל אזור כפתור "דחה למחר" שמוציא אותו מההצעה של היום ומכניס במקומו את האזור הבא בתור. נוסף 20.10.2026, עודכן 21.10.2026 ✅ בוצע 21.10.2026 (גרסה 2026.10.21-1940c13e)
+- [x] כפתורי ציון קושי מהירים (למשל 1–5 / קל–קשה) שמופיעים בסיום כל תרגיל, לא אחרי כל סט. נוסף 20.10.2026, עודכן 21.10.2026 ✅ בוצע 21.10.2026 (גרסה 2026.10.21-1940c13e)
+- [x] רישום זמן המנוחה בפועל בין סט לסט (אוטומטי לפי זמני הרישום), והצגתו בדוח האימון. נוסף 20.10.2026 ✅ בוצע 21.10.2026 (גרסה 2026.10.21-1940c13e)
+- [x] סיכום אחוזי השלמה לכל אזור גוף בסוף האימון: יעד לאזור = 3 תרגילים × 3 סטים = 9 סטים = 100%. כל סט חסר (או תרגיל חסר) מוריד בהתאם, כלומר אחוז = סטים שבוצעו באזור / 9 (מקסימום 100%). להציג בדוח סיום האימון. נוסף 20.10.2026 ✅ בוצע 21.10.2026 (גרסה 2026.10.21-1940c13e)
+- [x] מיון אזורי הגוף ברשימת התרגילים הראשית לפי זמן מהאימון האחרון: האזור שלא אומן הכי הרבה זמן למעלה, והאחרון שאומן למטה (כמו בכרטיס "מה לאמן היום", שכבר ממוין כך). נוסף 20.10.2026 ✅ בוצע 21.10.2026 (גרסה 2026.10.21-1940c13e)
+
+- [ ] חשבונות משתמשים וסנכרון/גיבוי אוטומטי לענן (מומלץ Firebase), כהכנה למכירת האפליקציה בעתיד; כולל מדיניות פרטיות. נוסף 21.10.2026
+- [x] משפט מוטיבציה כשמשלימים את כל אזורי הגוף בשבוע אחד, ומשפט נוסף בסוף החודש (כשכל שבועות החודש היו שבועות מלאים). נוסף 21.10.2026 ✅ בוצע 21.10.2026 (גרסה 2026.10.21-afa1d613)
+- [ ] סרטון הדגמה קצרצר לכל תרגיל (בלחיצה ארוכה על התרגיל) שמראה את הביצוע הנכון. נוסף 22.10.2026 · 🧪 פיילוט 23.10.2026: סרטונים ללחיצת חזה במוט ולסקוואט בלבד (שאר התרגילים: "בקרוב")
+- [x] בדוחות: נתון על קלות התרגילים (אילו תרגילים דורגו קלים). בכניסה לתרגיל שדורג קל בפעם האחרונה: הודעה שמומלץ להוסיף משקל. נוסף 22.10.2026 ✅ בוצע 23.10.2026 (גרסה 2026.10.23-95171713)
+- [x] צלצול/התרעה כשזמן המנוחה בין סטים נגמר. נוסף 22.10.2026 ✅ בוצע 23.10.2026 (גרסה 2026.10.23-95171713)
+- [x] כפתורי פלוס/מינוס במשקל יקפצו ב-1 ק"ג במקום 2.5. נוסף 22.10.2026 ✅ בוצע 23.10.2026 (גרסה 2026.10.23-95171713)
